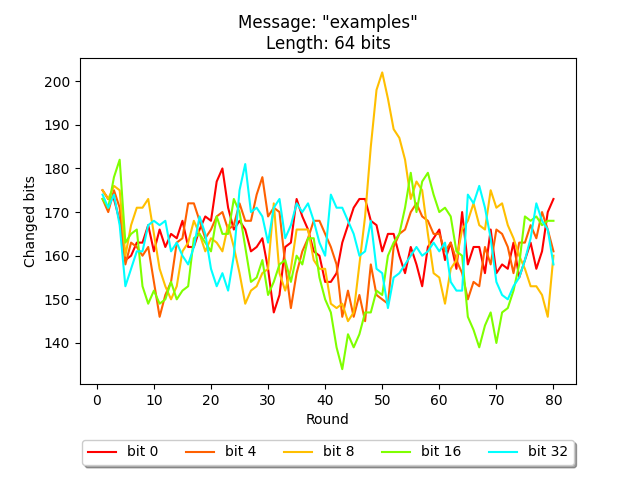
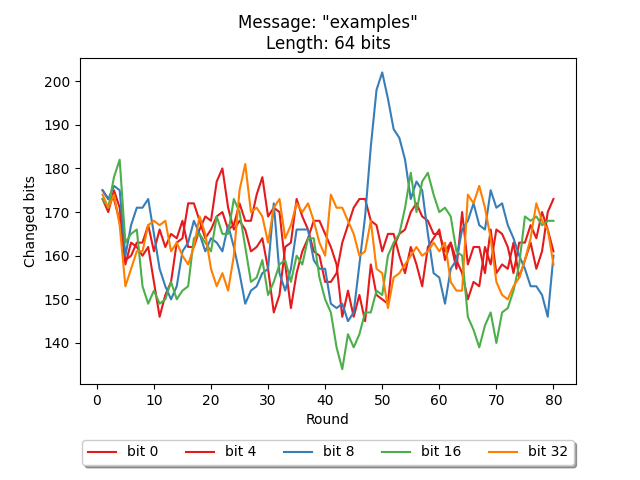
Finishing touches

diff --git a/lab1/gui/main.py b/lab1/gui/main.py
@@ -7,7 +7,7 @@ import matplotlib.pyplot as plt
 from lab1.hashpkg.ripemd320 import py_ripemd320_with_shift, py_ripemd320
 
 # Read file
-initial_message = None
+initial_message = ''
 
 try:
     with open('./gui/message.txt', 'r+') as file:
@@ -62,7 +62,7 @@ while True:         # Event Loop
         # Plot avalanche effect
         plt.subplots_adjust(bottom=0.2)
         x = range(1, len(bits) + 1)
-        cmap = plt.cm.get_cmap('hsv', (len(message) << 3) + 1)
+        cmap = plt.cm.get_cmap('Set3', (len(message) << 3) + 1)
         p1 = plt.plot(x, bits, color=cmap(bit_to_change), label=f'bit {bit_to_change}')
 
         plt.ylabel('Changed bits')

diff --git a/lab1/cli/main.py b/lab1/cli/main.py
@@ -44,7 +44,7 @@ def main():
         if len(bits_to_change) > 5:
             bits_to_change = bits_to_change[:5]
 
-        cmap = plt.cm.get_cmap('hsv', len(message) << 3)
+        cmap = plt.cm.get_cmap('Set1', len(message) << 3)
 
         # generate hashes with different parameters
         for bit in bits_to_change:
